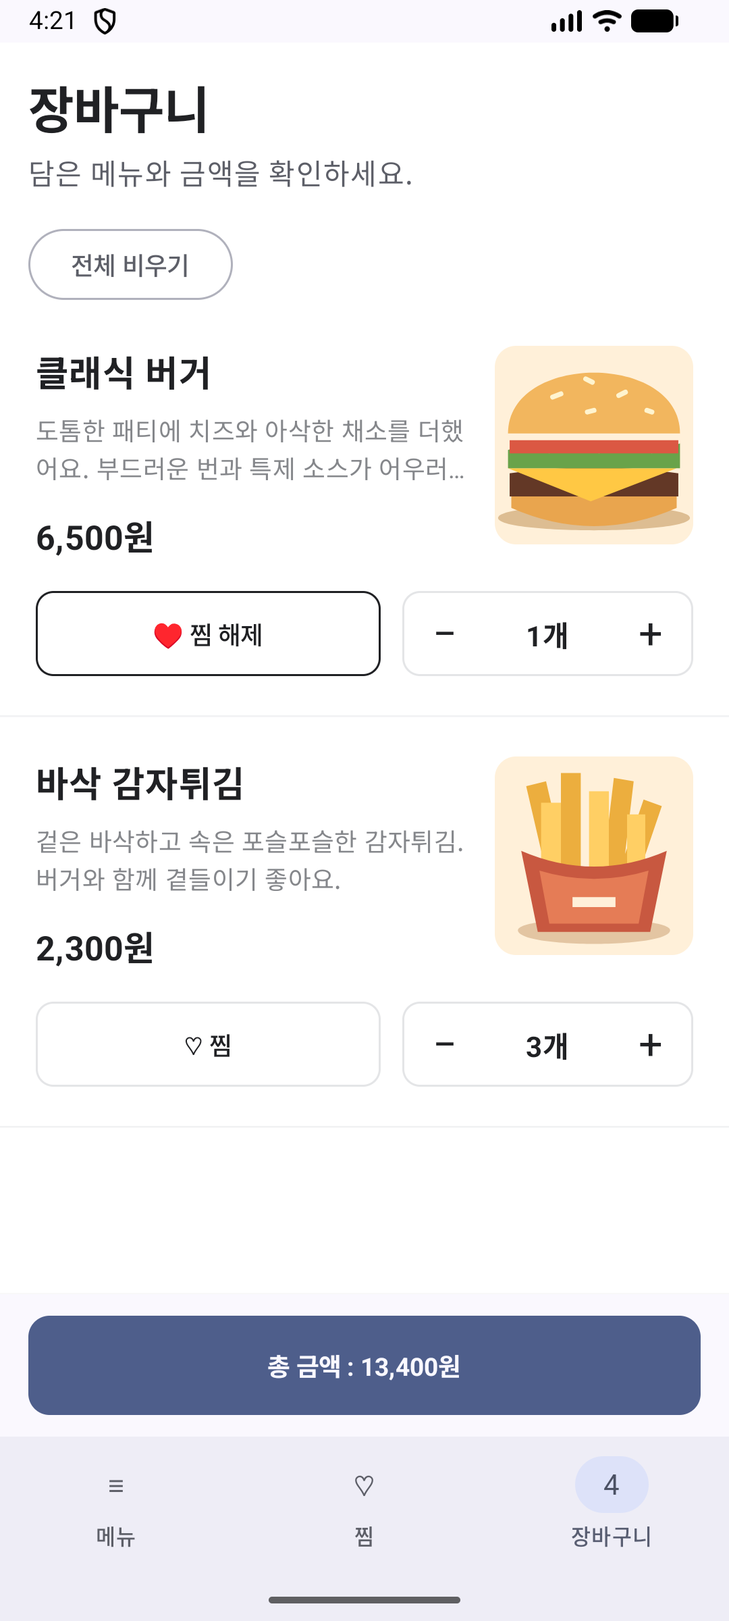
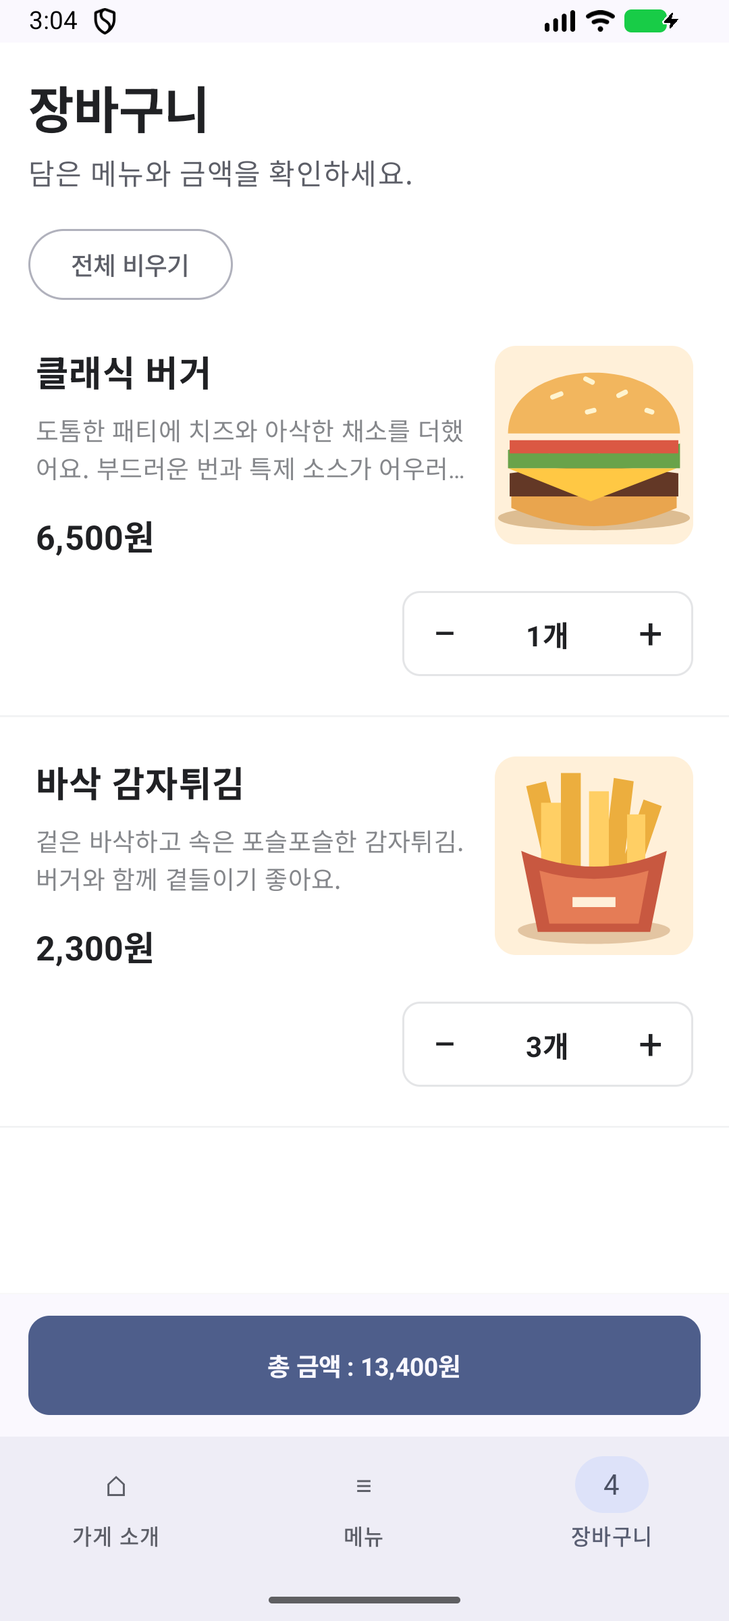
feat: HW decreased; no like page and replaced into store info, added instruction

diff --git a/app/src/main/java/com/mca/androidseminar2026/ui/CounterExample.kt b/app/src/main/java/com/mca/androidseminar2026/ui/CounterExample.kt
@@ -1,0 +1,50 @@
+package com.mca.androidseminar2026.ui
+
+import androidx.compose.foundation.layout.Arrangement
+import androidx.compose.foundation.layout.Column
+import androidx.compose.foundation.layout.fillMaxSize
+import androidx.compose.foundation.layout.padding
+import androidx.compose.foundation.layout.safeDrawingPadding
+import androidx.compose.material3.Button
+import androidx.compose.material3.MaterialTheme
+import androidx.compose.material3.Surface
+import androidx.compose.material3.Text
+import androidx.compose.runtime.Composable
+import androidx.compose.runtime.getValue
+import androidx.compose.ui.Alignment
+import androidx.compose.ui.Modifier
+import androidx.compose.ui.unit.dp
+import androidx.lifecycle.compose.collectAsStateWithLifecycle
+import androidx.lifecycle.viewmodel.compose.viewModel
+import com.mca.androidseminar2026.ViewModel.CounterViewModel
+import com.mca.androidseminar2026.uistate.CounterUiState
+
+@Composable
+fun CounterExample() {
+    // 1. ViewModel을 가져오고 StateFlow의 현재 상태를 수집합니다.
+    val counterViewModel: CounterViewModel = viewModel()
+    val uiState by counterViewModel.uiState.collectAsStateWithLifecycle()
+
+    // 2. 표시할 상태와 버튼을 눌렀을 때 실행할 함수를 UI에 전달합니다.
+    CounterExampleScreen(
+        uiState = uiState,
+        onIncrement = { counterViewModel.increment() },
+    )
+}
+
+@Composable
+private fun CounterExampleScreen(uiState: CounterUiState, onIncrement: () -> Unit) {
+    Surface(Modifier.fillMaxSize()) {
+        Column(
+            modifier = Modifier.safeDrawingPadding().padding(24.dp),
+            horizontalAlignment = Alignment.CenterHorizontally,
+            verticalArrangement = Arrangement.spacedBy(16.dp, Alignment.CenterVertically),
+        ) {
+            Text("상태 연결 예제", style = MaterialTheme.typography.titleLarge)
+            // 3. 새 상태가 전달되면 화면의 숫자도 갱신됩니다.
+            Text("누른 횟수: ${uiState.count}")
+            // 4. UI는 숫자를 직접 수정하지 않고 전달받은 콜백을 호출합니다.
+            Button(onClick = onIncrement) { Text("숫자 올리기") }
+        }
+    }
+}

diff --git a/app/src/main/java/com/mca/androidseminar2026/ui/OrderScreens.kt b/app/src/main/java/com/mca/androidseminar2026/ui/OrderScreens.kt
@@ -3,8 +3,16 @@ package com.mca.androidseminar2026.ui
 import androidx.compose.runtime.Composable
 import com.mca.androidseminar2026.model.OrderTab
 
-// 각 화면에 필요한 상태와 이벤트 콜백을 파라미터로 추가하세요.
-// 세 화면의 메뉴 항목은 MenuComponents.kt의 MenuItemRow를 재사용하세요.
+// 상태와 이벤트 연결은 CounterExample.kt의 실행 예제를 참고하세요.
+// 각 화면에 필요한 상태·콜백과 사용할 ViewModel은 직접 설계하세요.
+// 메뉴·장바구니 항목은 MenuComponents.kt의 MenuItemRow를 재사용하세요.
+// 예시 파일 구조입니다. 한 파일에 여러 함수를 모두 저장할 필요는 없습니다.
+
+@Composable
+fun RestaurantScreen() {
+    // TODO: RestaurantData의 이름·대표 이미지·소개와 가게 찜 버튼을 표시하세요.
+    // 찜 여부를 구분하고, 탭 전환과 화면 회전 후에도 상태를 유지하세요.
+}
 
 @Composable
 fun MenuScreen() {
@@ -14,16 +22,10 @@ fun MenuScreen() {
 }
 
 @Composable
-fun FavoritesScreen() {
-    // TODO: 메뉴 화면과 같은 MenuItemRow를 사용해 찜 목록을 표시하세요.
-    // 찜 해제·담기·수량 변경을 연결하고, 비어 있으면 안내를 표시하세요.
-}
-
-@Composable
 fun CartScreen() {
     // TODO: 같은 MenuItemRow로 수량이 1 이상인 메뉴를 표시하세요.
-    // 찜·수량 변경을 연결하고, 수량이 0이면 목록에서 제거하세요.
-    // 전체 비우기와 빈 목록 안내를 구현하세요. 상품별 합계 표시는 필요 없습니다.
+    // 수량 변경을 연결하고, 수량이 0이면 목록에서 제거하세요.
+    // 전체 비우기와 빈 목록 안내를 구현하세요.
     // 전체 수량·총가격 텍스트 대신 Bottom Bar 위에 CheckoutButton을 고정하세요.
     // 클릭 시 현재 금액의 결제 완료 Toast만 표시하고 장바구니는 유지하세요.
 }

diff --git a/app/src/main/java/com/mca/androidseminar2026/ui/Assignment2Starter.kt b/app/src/main/java/com/mca/androidseminar2026/ui/Assignment2Starter.kt
@@ -1,27 +1,10 @@
 package com.mca.androidseminar2026.ui
 
-import androidx.compose.foundation.layout.Box
-import androidx.compose.foundation.layout.fillMaxSize
-import androidx.compose.foundation.layout.padding
-import androidx.compose.foundation.layout.safeDrawingPadding
-import androidx.compose.material3.Surface
-import androidx.compose.material3.Text
 import androidx.compose.runtime.Composable
-import androidx.compose.ui.Alignment
-import androidx.compose.ui.Modifier
-import androidx.compose.ui.unit.dp
 
-/** 앱 연결부입니다. 아래 안내 UI를 직접 구현한 화면으로 교체하세요. */
 @Composable
 fun Assignment2Starter() {
-    // TODO: 직접 설계한 ViewModel의 상태와 OrderScreens.kt의 화면·이벤트를 연결하세요.
-    // 현재 탭에 따른 화면 전환과 하단 Bottom Bar 배치도 직접 구현하세요.
-    Surface(Modifier.fillMaxSize()) {
-        Box(
-            Modifier.safeDrawingPadding().padding(24.dp),
-            contentAlignment = Alignment.Center,
-        ) {
-            Text("한끼 테이블\n화면의 TODO를 구현하고 상태 관리 구조를 설계하세요.")
-        }
-    }
+    // 버튼 → ViewModel → UiState → UI 연결을 보여 주는 실행 예제입니다.
+    // TODO: 예제를 참고해 직접 설계한 과제 화면·상태·이벤트 연결로 교체하세요.
+    CounterExample()
 }

diff --git a/app/src/main/java/com/mca/androidseminar2026/ui/MenuComponents.kt b/app/src/main/java/com/mca/androidseminar2026/ui/MenuComponents.kt
@@ -3,19 +3,19 @@ package com.mca.androidseminar2026.ui
 import androidx.compose.runtime.Composable
 import com.mca.androidseminar2026.data.MenuItem
 
-// 메뉴·찜·장바구니 세 화면에서 같은 함수를 호출하세요. ViewModel의 구조는 직접 설계하세요.
+// 메뉴·장바구니에서 같은 함수를 호출하세요. ViewModel 구조는 직접 설계하세요.
+// 상태와 콜백을 받는 UI의 예시는 CounterExample.kt를 참고하세요.
 @Composable
 fun MenuItemRow(
+    // 예시 파라미터로, 수정이나 추가하셔도 됩니다.
     menu: MenuItem,
-    isFavorite: Boolean,
     quantity: Int,
-    onToggleFavorite: () -> Unit,
     onIncrease: () -> Unit,
     onDecrease: () -> Unit,
 ) {
     // TODO: 왼쪽에 이름·설명·가격, 오른쪽에 둥근 정사각형 이미지를 배치하세요.
     // 설명은 두 줄 이후 말줄임 처리하고 항목 사이에 여백과 구분선을 두세요.
-    // 아래쪽에는 찜 버튼과 QuantitySelector를 나란히 배치하세요.
+    // 아래쪽 오른편에 QuantitySelector를 배치하세요. 배치는 주어진 예시 이미지를 참고하세요.
 }
 
 @Composable

diff --git a/app/src/main/java/com/mca/androidseminar2026/data/MenuData.kt b/app/src/main/java/com/mca/androidseminar2026/data/MenuData.kt
@@ -7,7 +7,7 @@ enum class MenuCategory(val label: String) {
     MAIN("메인"), SIDE("사이드"), DRINK("음료"),
 }
 
-/** 가격은 원 단위 정수입니다. 찜 여부나 수량을 이 기준 데이터에 추가해 변경하지 마세요. */
+/** 가격은 원 단위 정수입니다. 수량을 이 기준 데이터에 추가해 변경하지 마세요. */
 data class MenuItem(
     val id: Int,
     val name: String,
@@ -18,8 +18,6 @@ data class MenuItem(
 )
 
 object MenuData {
-    const val restaurantName = "한끼 테이블"
-
     val items: List<MenuItem> = listOf(
         MenuItem(1, "클래식 버거", MenuCategory.MAIN, 6500, R.drawable.menu_burger,
             "도톰한 패티에 치즈와 아삭한 채소를 더했어요. 부드러운 번과 특제 소스가 어우러지는 든든한 한 끼입니다."),

diff --git a/app/src/main/java/com/mca/androidseminar2026/ViewModel/CounterViewModel.kt b/app/src/main/java/com/mca/androidseminar2026/ViewModel/CounterViewModel.kt
@@ -1,0 +1,19 @@
+package com.mca.androidseminar2026.ViewModel
+
+import androidx.lifecycle.ViewModel
+import com.mca.androidseminar2026.uistate.CounterUiState
+import kotlinx.coroutines.flow.MutableStateFlow
+import kotlinx.coroutines.flow.StateFlow
+import kotlinx.coroutines.flow.asStateFlow
+import kotlinx.coroutines.flow.update
+
+class CounterViewModel : ViewModel() {
+    // 상태 수정은 ViewModel 안에서만, UI에는 읽기 전용으로 공개합니다.
+    private val _uiState = MutableStateFlow(CounterUiState())
+    val uiState: StateFlow<CounterUiState> = _uiState.asStateFlow()
+
+    fun increment() {
+        // 버튼 이벤트를 받아 count가 1 증가한 새 상태를 전달합니다.
+        _uiState.update { current -> current.copy(count = current.count + 1) }
+    }
+}

diff --git a/app/src/main/java/com/mca/androidseminar2026/data/RestaurantData.kt b/app/src/main/java/com/mca/androidseminar2026/data/RestaurantData.kt
@@ -1,0 +1,12 @@
+package com.mca.androidseminar2026.data
+
+import androidx.annotation.DrawableRes
+import com.mca.androidseminar2026.R
+
+/** 찜 상태는 이 기준 데이터와 분리해 관리하세요. */
+object RestaurantData {
+    const val name = "한끼 테이블"
+    const val description = "든든한 버거와 바삭한 사이드, 시원한 음료를 준비하는 작은 음식점입니다. " +
+        "혼자 먹는 점심도, 함께 나누는 저녁도 한끼 테이블에서 골라 보세요."
+    @DrawableRes val imageResId: Int = R.drawable.menu_burger
+}

diff --git a/app/src/main/java/com/mca/androidseminar2026/MainActivity.kt b/app/src/main/java/com/mca/androidseminar2026/MainActivity.kt
@@ -17,7 +17,7 @@ class MainActivity : ComponentActivity() {
                 // Assignment2Starter 내부에서 화면과 ViewModel을 연결하세요.
                 Assignment2Starter()
 
-                // 교수자용 로컬 답안 연결: 위 호출 대신 아래 호출을 사용합니다.
+                // 제 로컬 환경에 저장된 정답 코드입니다. 신경쓰실 필요 없습니다.
                 // com.mca.androidseminar2026.answer.ui.FoodOrderApp()
             }
         }

diff --git a/app/src/main/java/com/mca/androidseminar2026/uistate/CounterUiState.kt b/app/src/main/java/com/mca/androidseminar2026/uistate/CounterUiState.kt
@@ -1,0 +1,4 @@
+package com.mca.androidseminar2026.uistate
+
+// 예제 화면에 표시할 상태입니다. 과제용 UiState의 구성은 직접 설계하세요.
+data class CounterUiState(val count: Int = 0)

diff --git a/app/src/main/java/com/mca/androidseminar2026/model/OrderTab.kt b/app/src/main/java/com/mca/androidseminar2026/model/OrderTab.kt
@@ -1,7 +1,7 @@
 package com.mca.androidseminar2026.model
 
 enum class OrderTab(val label: String) {
+    RESTAURANT("가게 소개"),
     MENU("메뉴"),
-    FAVORITES("찜"),
     CART("장바구니"),
 }

diff --git a/assignment2.md b/assignment2.md
@@ -1,6 +1,6 @@
 # 과제 2 - 한끼 테이블
 
-한 음식점의 메뉴를 찾아보고, 마음에 드는 메뉴를 찜하고, 장바구니에 담는 **한끼 테이블** 앱을 만들어 봅시다.
+한 음식점을 소개하고, 가게를 찜하고, 메뉴를 장바구니에 담는 **한끼 테이블** 앱을 만들어 봅시다.
 
 주어진 메뉴 데이터를 이용하여 Compose로 화면을 만들고, ViewModel의 상태와 사용자 이벤트를 연결해 봅시다. AI를 이용해 구현해도 됩니다. 사용한 코드는 직접 실행하고 **확인**해 보세요.
 
@@ -8,52 +8,51 @@
 
 ## 1. 과제의 결과물
 
-앱에는 **메뉴, 찜, 장바구니** 세 화면이 있으며, 하단의 **Bottom Bar**로 전환합니다. 초기 상태는 메뉴 탭, 전체 카테고리, 찜 없음, 빈 장바구니입니다.
+앱에는 **가게 소개, 메뉴, 장바구니** 세 화면이 있으며, 하단의 **Bottom Bar**로 전환합니다. 가게는 한 곳만 다룹니다. 초기 상태는 가게 소개 탭, 전체 카테고리, 가게 찜 해제, 빈 장바구니입니다.
 
-### (1) 메뉴 화면
+### (1) 가게 소개 화면
+
+- 제공된 음식점 **한끼 테이블**의 이름·대표 이미지·소개 문구와 **가게 찜 버튼**을 표시합니다.
+- 버튼을 누르면 가게 찜 상태가 전환되며, 찜 여부를 시각적으로 구분합니다.
+- 탭을 왕복하거나 화면을 회전해도 가게 찜 상태가 유지됩니다. 가게 찜 변경은 카테고리나 장바구니에 영향을 주지 않습니다.
+- 찜 대상은 가게 한 곳입니다. 메뉴별 찜 버튼이나 별도의 찜 목록 화면은 만들지 않습니다.
+
+### (2) 메뉴 화면
 
 - 음식점 이름 **한끼 테이블**과 **전체, 메인, 사이드, 음료** 카테고리를 표시합니다.
 - 전체를 선택하면 모든 메뉴를, 다른 카테고리를 선택하면 해당 메뉴만 표시합니다.
 - 메뉴 목록은 배달의민족 메뉴 목록의 배치를 참고하여 구현합니다. **왼쪽에는 이름·설명·가격, 오른쪽에는 모서리가 둥근 정사각형 이미지**를 배치합니다. 이름과 가격은 강조하고, 설명은 최대 두 줄 이후 말줄임 처리합니다. 메뉴 사이는 여백과 구분선으로 구분합니다.
-- 각 메뉴의 아래쪽에 **찜 버튼과 담기·수량 조절 영역**을 나란히 배치합니다. 이미지 위에는 버튼을 두지 않습니다. 인기 순위, 리뷰 수, 배달비 배너는 구현하지 않습니다.
+- 각 메뉴의 아래쪽 오른편에 **담기·수량 조절 영역**을 배치합니다. 이미지 위에는 버튼을 두지 않습니다. 인기 순위, 리뷰 수, 배달비 배너는 구현하지 않습니다.
 - 수량이 0이면 **담기** 버튼을 표시합니다. 누르면 수량이 1이 되고, 같은 자리가 **`−  1개  +`**로 바뀝니다. 이후 `−`, `+`로 수량을 1씩 변경하고, 0이 되면 다시 담기 버튼으로 돌아갑니다. 전환되어도 조작 영역의 크기와 카드 배치가 흔들리지 않게 합니다.
-- 찜 버튼을 누르면 찜 상태가 전환됩니다. 다른 화면에서 바꾼 찜·수량도 즉시 반영합니다.
-- 목록 맨 위에서 **아래로 일정 거리 이상 당겼다 놓으면 새로고침 표시를 0.5초 동안** 보여 줍니다. 실제 통신이나 데이터 변경은 하지 않으며 화면을 지웠다 다시 만들지 않습니다. 탭·카테고리·찜·장바구니는 유지하고, 진행 중에는 중복 새로고침을 시작하지 않습니다.
-
-### (2) 찜 화면
-
-- 카테고리와 관계없이 찜한 메뉴만 표시합니다. **메뉴 화면과 동일한 `MenuItemRow` 컴포넌트를 재사용**하여 이름·설명·가격·이미지·찜 버튼·담기/수량 조절 영역을 표시합니다.
-- 찜 화면에서도 담기와 수량 증감을 할 수 있습니다.
-- 찜을 해제하면 목록에서 즉시 사라지고 메뉴 화면에도 반영됩니다. 장바구니 수량은 바뀌지 않습니다.
-- 찜한 메뉴가 없으면 안내 문구를 표시합니다.
+- 장바구니에서 변경한 수량도 즉시 반영합니다.
+- 목록 맨 위에서 **아래로 일정 거리 이상 당겼다 놓으면 새로고침 표시를 0.5초 동안** 보여 줍니다. 실제 통신이나 데이터 변경은 하지 않으며 화면을 지웠다 다시 만들지 않습니다. 탭·카테고리·가게 찜·장바구니는 유지하고, 진행 중에는 중복 새로고침을 시작하지 않습니다.
 
 ### (3) 장바구니 화면
 
-- 수량이 1 이상인 메뉴만 표시합니다. **메뉴·찜 화면과 동일한 `MenuItemRow` 컴포넌트**로 이름·설명·단가·이미지·찜 버튼·수량 조절 영역을 표시합니다. 
+- 카테고리와 관계없이 수량이 1 이상인 메뉴만 표시합니다. **메뉴 화면과 동일한 `MenuItemRow` 컴포넌트**로 이름·설명·단가·이미지·수량 조절 영역을 표시합니다.
 - 버튼을 누르면 수량이 1씩 바뀝니다. 수량이 0이면 목록에서 제거하고 음수가 되지 않게 합니다.
-- 찜 상태도 변경할 수 있으며 메뉴·찜 화면에 즉시 반영됩니다. 
 - 총 가격은 **Bottom Bar 바로 위에 `총 금액 : nnnn원` 버튼**의 형태로 고정하여 표시합니다. 목록을 스크롤해도 버튼은 고정되어 보이고, 수량이 바뀌면 금액도 즉시 갱신됩니다.
-- 버튼을 누르면 **`nnnn원 결제 완료!` Toast**를 표시합니다. 버튼과 Toast에는 누른 시점의 동일한 총금액을 사용합니다. 실제 결제·주문 전송은 하지 않으며, 장바구니와 찜은 그대로 유지합니다.
+- 버튼을 누르면 **`nnnn원 결제 완료!` Toast**를 표시합니다. 버튼과 Toast에는 누른 시점의 동일한 총금액을 사용합니다. 실제 결제·주문 전송은 하지 않으며, 장바구니와 가게 찜은 그대로 유지합니다.
 - 전체 비우기 버튼은 별도로 제공합니다. 비우기는 장바구니만 초기화합니다.
-- 비어 있으면 안내 문구를 표시하고, `총 금액 : 0원` 버튼은 비활성화합니다. 
+- 비어 있으면 안내 문구를 표시하고, `총 금액 : 0원` 버튼은 비활성화합니다.
 
 **전체 수량 = 모든 상품 수량의 합**, **총가격 = 각 상품의 (단가 × 수량)의 합**입니다. 배달비·할인·세금은 계산하지 않습니다.
 
 ### (4) Bottom Bar
 
-- 메뉴, 찜, 장바구니 탭을 항상 표시하고 현재 선택된 탭을 구분합니다.
+- 가게 소개, 메뉴, 장바구니 탭을 항상 표시하고 현재 선택된 탭을 구분합니다.
 - 장바구니 탭에는 상품 종류 수가 아닌 **전체 수량**을 표시합니다.
-- 어느 화면에서 찜이나 수량을 바꾸어도 관련 화면에 즉시 반영되어야 합니다.
-- 탭을 바꾸어도 선택 카테고리가 유지되어야 합니다. 탭·카테고리를 바꾸어도 찜과 장바구니는 유지됩니다.
-- 화면 회전 후에도 현재 탭, 카테고리, 찜, 장바구니 상태가 유지되어야 합니다.
+- 메뉴나 장바구니에서 수량을 바꾸면 두 화면과 Bottom Bar에 즉시 반영되어야 합니다.
+- 탭을 바꾸어도 선택 카테고리가 유지되어야 합니다. 탭·카테고리를 바꾸어도 가게 찜과 장바구니는 유지됩니다.
+- 화면 회전 후에도 현재 탭, 카테고리, 가게 찜, 장바구니 상태가 유지되어야 합니다.
 
 ### 예시 화면
 
 예시 이미지는 [`docs/images/assignment2/`](docs/images/assignment2/)에 있습니다. 클래식 버거 1개와 바삭 감자튀김 3개를 담은 상태로, 전체 수량은 4개, 총금액은 13,400원입니다.
 
-| 메뉴 (`menu.png`) | 찜 (`favorites.png`) | 장바구니 (`cart.png`) |
+| 가게 소개 (`restaurant.png`) | 메뉴 (`menu.png`) | 장바구니 (`cart.png`) |
 |---|---|---|
-| <img src="docs/images/assignment2/menu.png" alt="메뉴 화면 예시" width="240"> | <img src="docs/images/assignment2/favorites.png" alt="찜 화면 예시" width="240"> | <img src="docs/images/assignment2/cart.png" alt="장바구니 화면 예시" width="240"> |
+| <img src="docs/images/assignment2/restaurant.png" alt="가게 소개 화면 예시" width="240"> | <img src="docs/images/assignment2/menu.png" alt="메뉴 화면 예시" width="240"> | <img src="docs/images/assignment2/cart.png" alt="장바구니 화면 예시" width="240"> |
 
 [결제 완료 Toast 예시 (`checkout-toast.png`)](docs/images/assignment2/checkout-toast.png)
 
@@ -63,28 +62,32 @@
 
 ```text
 data/MenuData.kt            # 읽기: 메뉴 데이터와 타입
-model/OrderTab.kt           # 읽기: 메뉴·찜·장바구니 탭
+data/RestaurantData.kt      # 읽기: 가게 이름·소개·대표 이미지
+model/OrderTab.kt           # 읽기: 가게 소개·메뉴·장바구니 탭
 uistate/                   # 직접 설계한 UiState 정의
 ViewModel/                 # 직접 설계한 ViewModel 정의
 ui/
 ├── OrderScreens.kt         # 구현: 세 화면과 Bottom Bar
 ├── MenuComponents.kt       # 구현: 메뉴 항목과 담기·수량 조절 UI
+├── CounterExample.kt       # 참고: 버튼을 누르면 숫자가 증가하는 예제 UI
 └── Assignment2Starter.kt   # 구현: ViewModel 상태와 화면 연결
 ```
 
 **ViewModel과 UiState는 직접 설계하고 필요한 파일을 추가하세요.** 화면에 필요한 상태·콜백 파라미터도 직접 정합니다. 함수 이름이나 파라미터를 바꾸면 호출하는 곳도 함께 수정하세요.
 
+`uistate/CounterUiState.kt`, `ViewModel/CounterViewModel.kt`, `ui/CounterExample.kt`는 실행 가능한 연결 예제입니다. `Assignment2Starter`는 이 예제를 표시하며, 버튼을 누를 때마다 숫자가 1씩 증가합니다. 예제를 참고한 뒤 과제 화면으로 교체하세요. 카운터는 과제 앱의 기능에 포함하지 않습니다.
+
 **UiState는 `uistate/` 폴더 안에서만, ViewModel은 `ViewModel/` 폴더 안에서만 정의하세요.** 폴더 이름의 대소문자를 지켜 주세요. 클래스의 개수·이름·역할은 직접 정합니다.
 
-`MenuData.items`에는 3개 카테고리의 메뉴 6개가 있습니다. 각 `MenuItem`은 고유 ID(`id`), 이름(`name`), 설명(`description`), 카테고리(`category`), 원 단위 가격(`price`), 로컬 이미지 ID(`imageResId`)를 갖습니다. 음식점 이름은 `MenuData.restaurantName`입니다.
+`MenuData.items`에는 3개 카테고리의 메뉴 6개가 있습니다. 각 `MenuItem`은 고유 ID(`id`), 이름(`name`), 설명(`description`), 카테고리(`category`), 원 단위 가격(`price`), 로컬 이미지 ID(`imageResId`)를 갖습니다. 가게 소개에는 `RestaurantData.name`, `RestaurantData.description`, `RestaurantData.imageResId`를 사용하세요. 대표 이미지는 제공된 버거 일러스트입니다.
 
-원본 데이터는 변경하지 않습니다. `app/src/main/res/drawable/menu_*.xml`에 이미지가 준비되어 있으니 `painterResource(menu.imageResId)`를 `Image`에 연결하세요.
+원본 데이터는 변경하지 않습니다. `app/src/main/res/drawable/menu_*.xml`에 이미지가 준비되어 있으니 `painterResource`에 각 이미지 리소스 ID를 전달하여 `Image`에 연결하세요.
 
 ## 3. 과제
 
 ### (1) 화면과 Bottom Bar 만들기
 
-`OrderScreens.kt`의 세 화면·`BottomBar`·`CheckoutButton`, `MenuComponents.kt`의 `MenuItemRow`·`QuantitySelector`를 구현하세요. **메뉴·찜·장바구니 세 화면 모두 같은 `MenuItemRow`를 호출**하고, 필요한 상태와 이벤트 콜백을 전달합니다. 화면마다 항목 UI를 복사하거나 찜·수량을 UI 내부에 별도로 저장하지 마세요.
+`OrderScreens.kt`의 세 화면·`BottomBar`·`CheckoutButton`, `MenuComponents.kt`의 `MenuItemRow`·`QuantitySelector`를 구현하세요. **메뉴·장바구니 두 화면은 같은 `MenuItemRow`를 호출**하고, 필요한 상태와 이벤트 콜백을 전달합니다. 화면마다 항목 UI를 복사하거나 가게 찜·수량을 UI 내부에 별도로 저장하지 마세요.
 
 앱 전체에서 **Text, Image, Button, Row, Column, Spacer, Modifier**를 각각 사용하세요. 추가 Compose 부품과 스타일은 자유롭게 선택해도 됩니다.
 
@@ -96,7 +99,7 @@ ui/
 
 ### (3) 여러 화면에 상태 연결하기
 
-`Assignment2Starter`에서 상태를 수집하고 UI와 이벤트를 연결하세요. 어떤 UI가 어떤 ViewModel을 사용할지도 직접 정하세요.
+카운터 예제의 UiState → ViewModel → UI 연결 코드를 참고하세요. **과제용 ViewModel·UiState의 설계와 어떤 UI가 어떤 ViewModel을 사용·공유할지는 직접 정하세요.**
 
 ### (4) 참고사항
 

diff --git a/README.md b/README.md
@@ -4,11 +4,13 @@
 
 - 과제문: [assignment2.md](assignment2.md)
 - 화면·Bottom Bar: `app/src/main/java/com/mca/androidseminar2026/ui/OrderScreens.kt`
-- 세 화면 공통 메뉴 항목·수량 조절: `app/src/main/java/com/mca/androidseminar2026/ui/MenuComponents.kt`
+- 메뉴·장바구니 공통 항목·수량 조절: `app/src/main/java/com/mca/androidseminar2026/ui/MenuComponents.kt`
 - 상태·화면 연결: `app/src/main/java/com/mca/androidseminar2026/ui/Assignment2Starter.kt`
+- 실행 가능한 연결 예제: `ui/CounterExample.kt`, `ViewModel/CounterViewModel.kt`, `uistate/CounterUiState.kt` (`app/src/main/java/com/mca/androidseminar2026/` 기준)
 - UiState 정의 위치: `app/src/main/java/com/mca/androidseminar2026/uistate/`
 - ViewModel 정의 위치: `app/src/main/java/com/mca/androidseminar2026/ViewModel/`
 - 제공 메뉴: `app/src/main/java/com/mca/androidseminar2026/data/MenuData.kt`
+- 제공 가게 소개: `app/src/main/java/com/mca/androidseminar2026/data/RestaurantData.kt`
 - 제공 이미지: `app/src/main/res/drawable/menu_*.xml`
 - 이미지 출처와 사용 조건: [ASSET_LICENSES.md](ASSET_LICENSES.md)
 
